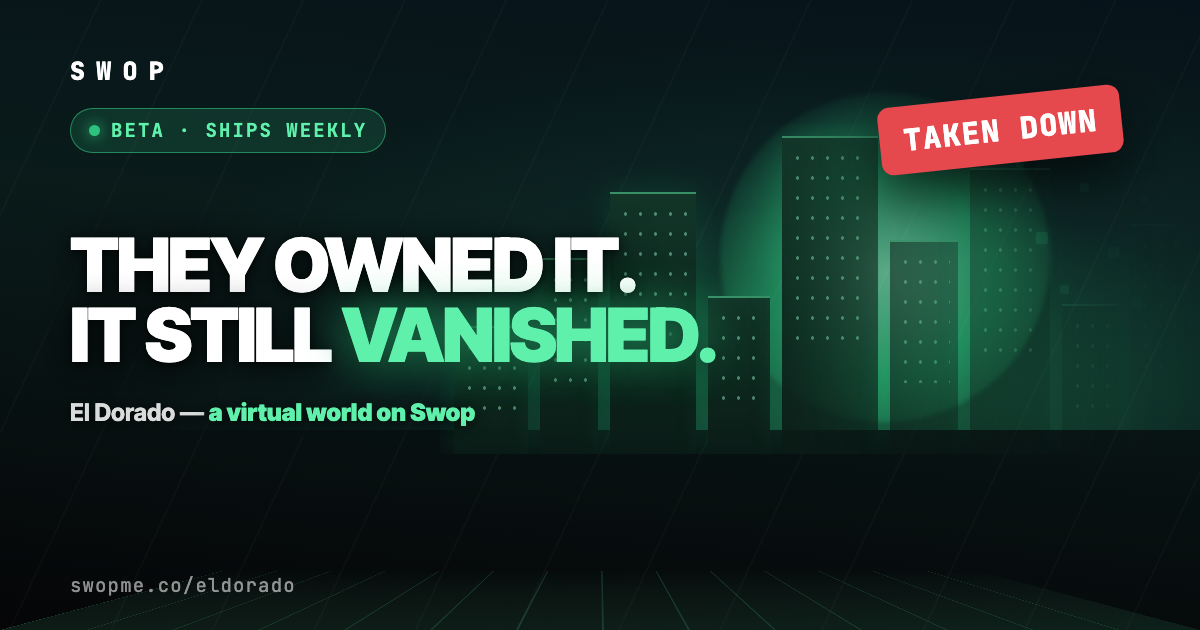
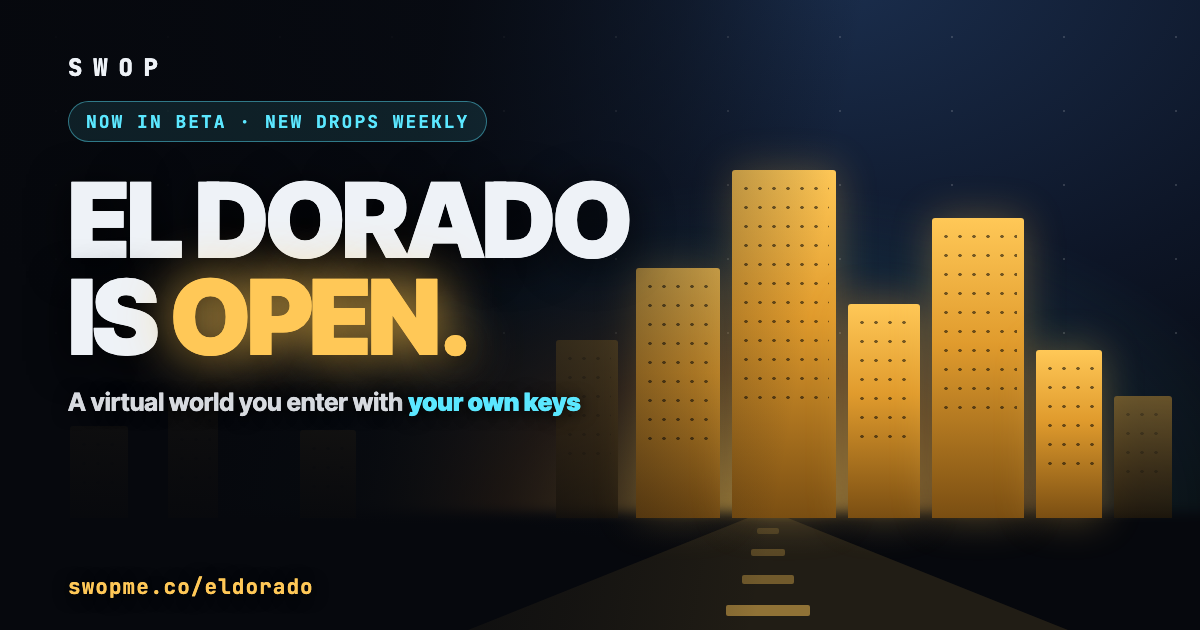
post(2026-10-14): rebuild as an invitation, not an essay
Travis: "thats pretty bad. make it all better and simpler to understand
and appealing to read and play in el dorado." He's right on all three.

The banner was the clearest failure. I built a LAUNCH cover around a
takedown — a grim green frame reading "THEY OWNED IT. IT STILL VANISHED."
with a TAKEN DOWN stamp. It sold a sad story about someone else's game
instead of making anyone want to walk into ours. El Dorado is also
literally the city of gold and I rendered it in Swop-blog green.

New banner uses El Dorado's OWN palette, lifted from its live stylesheet
(gold #FFC857, cyan #5BE7FF, navy #06080d): a golden skyline with a road
leading into it, "EL DORADO IS OPEN." Skyline sits right of frame with a
scrim so the copy always wins — the first cut had the headline colliding
with the towers and was unreadable at feed size.

The post had the same shape problem: it opened with several paragraphs of
licensing argument before a reader learned what El Dorado was or why they
would go. Restructured to lead with the invitation and a three-step
"Getting in", then the why, then the honest limits. Plainer sentences
throughout; 2,542 -> 2,156 words.

Kept intact: every factual claim, both verified infographics, the GTA
case, and the full "what we're not claiming" section. Simpler, not softer.

X thread and LinkedIn re-cut to open on the invitation.

diff --git a/blog/el-dorado-virtual-world-beta/index.html b/blog/el-dorado-virtual-world-beta/index.html
@@ -106,9 +106,9 @@
 <div class="wrap">
 <div class="art-crumb"><a href="/blog">Blog</a><span>/</span><span class="cur">Product</span></div>
 <h1 class="tight">El Dorado is live in beta</h1>
-<p class="art-dek">A virtual world built on Swop. You enter it with your swop.id &mdash; the same self-custodial wallet you already hold &mdash; and you can put on a headset to walk around in it. It is a beta, it has rough edges, and it ships improvements every week.</p>
+<p class="art-dek">A virtual world built on Swop, open now in beta. Sign in with your swop.id, put on a headset if you have one, and walk around a world you entered with keys you actually hold. New improvements every week.</p>
 <div class="art-meta">
-<span class="by"><span class="ini">ST</span><a class="nm" href="/blog/authors/swop-team">Swop Team</a><span class="sep"></span><span class="mono">Oct 14, 2026</span><span class="sep"></span><span class="mono">Updated Oct 14, 2026</span><span class="sep"></span><span class="mono">9 min read</span></span>
+<span class="by"><span class="ini">ST</span><a class="nm" href="/blog/authors/swop-team">Swop Team</a><span class="sep"></span><span class="mono">Oct 14, 2026</span><span class="sep"></span><span class="mono">Updated Oct 14, 2026</span><span class="sep"></span><span class="mono">7 min read</span></span>
 <span class="share"><a href="#" id="copy-link">Copy link</a><a href="https://x.com/intent/tweet?text=El%20Dorado%20is%20live%20in%20beta%20%E2%80%94%20a%20virtual%20world%20you%20enter%20with%20a%20wallet%20you%20hold%20the%20keys%20to.&url=https%3A%2F%2Fwww.swopme.co%2Fblog%2Fel-dorado-virtual-world-beta" target="_blank" rel="noopener">X</a><a href="https://warpcast.com/~/compose?text=El%20Dorado%20is%20live%20in%20beta&embeds[]=https%3A%2F%2Fwww.swopme.co%2Fblog%2Fel-dorado-virtual-world-beta" target="_blank" rel="noopener">Farcaster</a></span>
 </div>
 </div>
@@ -118,36 +118,29 @@
 <div class="wrap art-grid">
 <aside class="toc">
 <span class="lbl">Contents</span>
-<a href="#s1">What El Dorado is</a>
-<a href="#s2">You sign in with something you already hold</a>
-<a href="#s3">Every virtual economy has the same problem</a>
-<a href="#s4">What a self-custodial wallet changes</a>
-<a href="#s5">What it doesn&rsquo;t change</a>
-<a href="#s6">It&rsquo;s a beta, and it moves weekly</a>
+<a href="#s1">Getting in</a>
+<a href="#s2">Why we built it this way</a>
+<a href="#s3">The clearest example is a city</a>
+<a href="#s4">What changes in El Dorado</a>
+<a href="#s5">What we're not claiming</a>
+<a href="#s6">It's a beta, and it moves weekly</a>
+<a href="#s7">Come in</a>
 <a href="#faq">FAQ</a>
 </aside>
 <article class="prose">
-<p><strong>El Dorado is live in beta at <a href="https://www.swopme.co/eldorado">swopme.co/eldorado</a>.</strong> It is a virtual world built on Swop.</p>
-<p>We shipped it rather than announced it, so the honest version of this post is short on promises and clear about what exists today. Here is what it is, what makes it structurally different from the virtual worlds you have used before, and what it is not yet.</p>
+<p><strong>El Dorado is open.</strong> It is a virtual world built on Swop, it is live in beta right now at <a href="https://www.swopme.co/eldorado">swopme.co/eldorado</a>, and you can be inside it in about a minute.</p>
+<p>You can walk in on your laptop, or put on a headset and walk in properly. What you need is a swop.id &mdash; the identity you already have if you use the Swop app. There is no new account to make and no password to invent.</p>
 
-<h2 id="s1">What El Dorado is</h2>
-<p>A virtual world that runs on Swop&rsquo;s rails. That second half is the part worth paying attention to, and it is the reason this post exists on a blog that mostly argues about settlement and custody rather than about games.</p>
-<p>The <a href="/blog/tokenized-isnt-the-same-as-yours">piece we published yesterday</a> made the case that &ldquo;tokenized&rdquo; tells you almost nothing on its own &mdash; that the interesting variable is custody, and that it is set by whoever designs the thing, not by the chain underneath. El Dorado is what it looks like when you set that dial deliberately at the start, in a category where it has almost never been set that way at all.</p>
+<h2 id="s1">Getting in</h2>
+<p>Three steps, and the third one is optional.</p>
+<p><strong>1. Open <a href="https://www.swopme.co/eldorado">swopme.co/eldorado</a>.</strong> It asks you to sign in with your swop.id from the Swop app. If you don&rsquo;t have one yet, claim it in the app first &mdash; it takes a moment and it is the same id you use everywhere else in Swop.</p>
+<p><strong>2. Approve it on your phone.</strong> Open the Swop app, go to Wallet settings &rarr; Wallet connections, scan the code on screen, approve. You&rsquo;re in.</p>
+<p><strong>3. If you have a headset, pair it.</strong> You never type a password with a controller. Sign in on your phone, then enter the short code the headset shows you &mdash; or scan from the headset directly. Then you are standing in it rather than looking at it.</p>
 
-<h2 id="s2">You sign in with something you already hold</h2>
-<p>Open <a href="https://www.swopme.co/eldorado">swopme.co/eldorado</a> and you are asked to sign in with your <strong>swop.id</strong> from the Swop app. Not a new game account. Not a new password. The identity you already carry.</p>
-<p>If you are going in on a headset, you do not type anything with a controller. Sign in on your phone first, then pair the headset &mdash; either by scanning a code using Wallet connections in the Swop app, or by opening the pairing page on your phone and entering the short code the headset displays. If you do not have a swop.id yet, you claim one in the Swop app and come back.</p>
-<p>That flow is mundane to describe and it is the whole architectural point. The thing you authenticate with is a wallet whose keys live on your device. Swop is fully self-custodial &mdash; keys are generated and held on your device; Swop never holds them.</p>
-
-<h2 id="s3">Every virtual economy has the same problem</h2>
-<p>Here is the pattern that has held across two decades of virtual worlds, and it has nothing to do with whether a given game is good.</p>
-<p>In mainstream games, virtual items are granted under a <em>limited licence</em>. You are not buying property; you are buying permission to use something, and the terms usually say so explicitly. Publishers reserve the right to terminate an account, typically without refund. A ban does not just stop you playing &mdash; it freezes the inventory attached to that game, and an inventory you cannot reach has no practical value no matter what the market price says. Most publishers also prohibit transferring items or accounts outside their own systems, which means the exit is controlled by the same party as the entrance.</p>
-<p>The sharpest illustration of this is not a story about an economy at all. It is a story about a city.</p>
-<p>A group of developers spent years reverse-engineering <em>Grand Theft Auto III</em> and <em>Vice City</em> &mdash; rebuilding the games from the outside so they would run properly on modern machines. The projects, re3 and reVC, shipped no game content. <strong>You had to own the original game to use them at all.</strong> They were, in the most literal sense, a tool for people who had already paid.</p>
-<p>In February 2021 Take-Two issued a DMCA notice and GitHub took the code down. A developer filed a counter-notice and a fork came back. A lawsuit followed that September, the projects came down again in October, and the following month Take-Two shipped its own remastered versions of both games. The case was later settled.</p>
-<p>Today, if you open the original repository, GitHub returns <strong>HTTP 451 &mdash; Unavailable for Legal Reasons</strong>. We checked on the morning this post went up. A status code invented for censorship, named after <em>Fahrenheit 451</em>, returned for a rebuild of a two-decade-old game that you needed to own a copy of to run.</p>
-<p>Reasonable people disagree about who was right there, and we are not relitigating it. The point is narrower and harder to argue with: <strong>owning the game was never the thing that mattered.</strong> Every player who bought it still bought a licence, and the city they could walk around in existed at the discretion of someone else. That is the default condition of every virtual world you have ever entered.</p>
-<p>There are exceptions. EVE Online&rsquo;s PLEX is a long-running sanctioned bridge between in-game currency and real money. But the exceptions prove the rule: they exist because a publisher chose to allow them, and could choose otherwise.</p>
+<h2 id="s2">Why we built it this way</h2>
+<p>Here is the part that makes El Dorado different from every virtual world you have been in before, and it is worth two minutes.</p>
+<p>In almost every game you have played, <strong>you do not own your stuff.</strong> You hold a licence to use it. The terms usually say so in plain words. The publisher can close your account, and when that happens your inventory goes with it &mdash; not because anyone stole it, but because it was never in your hands to begin with. It lived in their database, and your account was the key to it.</p>
+<p>Most publishers also forbid selling or moving items outside their own systems. So the way out is controlled by the same people who control the way in.</p>
 
 <figure class="ig" aria-labelledby="ig1-cap">
 <svg viewBox="0 0 980 300" role="img" aria-label="Two models of holding a virtual item. The licence model: the item sits in the publisher's database, the account is the key, a ban freezes the inventory, and transfers outside the platform are prohibited. The self-custody model: the item sits in a wallet whose keys are on the player's device, the player holds the key, access cannot be silently frozen, and it is not confined to one platform's trading system." xmlns="http://www.w3.org/2000/svg">
@@ -178,22 +171,29 @@
 <figcaption id="ig1-cap">The difference is custody, not graphics. Note the last line on the right &mdash; it is the honest limit of the claim.</figcaption>
 </figure>
 
-<h2 id="s4">What a self-custodial wallet changes</h2>
-<p>Three things, concretely, and they follow from Swop&rsquo;s existing properties rather than from anything novel we are asking you to take on faith.</p>
-<p><strong>Your key is yours.</strong> Keys are generated and held on your device; Swop never holds them. The practical consequence is that your access to what you hold does not depend on an account remaining in good standing with a single operator.</p>
-<p><strong>You do not need to pre-buy gas to do anything.</strong> Transactions on Swop are gas-sponsored &mdash; you do not need to hold SOL or ETH to transact, and Swop covers the network fee as a cost it absorbs rather than a charge passed through to you. For a virtual world this matters more than it sounds: the usual on-boarding failure is a new player bouncing off a screen demanding they acquire a second token before they can take a first action.</p>
-<p><strong>It is not confined to one world.</strong> Swop runs on Solana, Ethereum, Base and Polygon, and the wallet you sign in with is the same one you use everywhere else in Swop &mdash; not a per-game balance that only exists inside one company&rsquo;s ledger.</p>
-<p>And losing the phone is not losing the account: log in with your email on any phone and your Swop wallet comes back with it. You can also save your private key, which lets you open your assets in another wallet entirely.</p>
+<h2 id="s3">The clearest example is a city</h2>
+<p>A few years ago, some developers rebuilt <em>Grand Theft Auto III</em> and <em>Vice City</em> from the outside &mdash; reverse-engineering them so the games would run properly on modern machines. The projects shipped no game content at all. <strong>You had to own the original game for them to work.</strong></p>
+<p>They were taken down anyway. Take-Two filed a DMCA notice in February 2021 and GitHub pulled the code. A counter-notice brought a fork back. A lawsuit followed that September, the projects came down again in October, and the month after that Take-Two released its own remasters of both games. It was later settled.</p>
+<p>Open the original repository today and you get <strong>&ldquo;451 &mdash; Unavailable for Legal Reasons&rdquo;</strong>, an error code originally meant for censorship. We checked the morning this went up.</p>
+<p>You can take either side of that fight. The bit that matters here is simpler: <strong>every person who bought that game still only had a licence to it.</strong> The city they drove around in existed because someone else allowed it to. That is the normal condition of virtual worlds, and most people have never had a reason to notice.</p>
 
-<h2 id="s5">What it doesn&rsquo;t change</h2>
-<p>This is the section most product launch posts leave out, so we will be direct.</p>
-<p><strong>Self-custody is not the same as legal ownership.</strong> Holding an asset in a wallet you control changes what can be done to your <em>access</em>. It does not by itself settle what rights you have in a virtual good &mdash; that still depends on the terms you agreed to and on your jurisdiction, and the law here is genuinely unsettled and varies by country. Anyone telling you that a wallet converts a game item into property in the legal sense is skipping a step. We are claiming the custody half, which is real, and not the legal half, which is not ours to assert.</p>
-<p><strong>Self-custody also hands you the key problem.</strong> That is the trade. Email recovery and key export exist precisely because the honest version of &ldquo;nobody can take it from you&rdquo; is &ldquo;nobody can get it back for you either.&rdquo;</p>
-<p><strong>And Swop has not commissioned a third-party security audit to date.</strong> That is true of the platform El Dorado is built on, it is relevant to anyone deciding how much to put into a beta, and you should weigh it.</p>
+<h2 id="s4">What changes in El Dorado</h2>
+<p>You arrive holding your own keys.</p>
+<p>Swop is fully self-custodial &mdash; keys are generated and held on your device, and Swop never holds them. Your way in is something you control, not an account someone else can switch off.</p>
+<p>A few practical consequences:</p>
+<p><strong>No buying a token before you can do anything.</strong> Transactions on Swop are gas-sponsored. You don&rsquo;t need to hold SOL or ETH to transact &mdash; Swop covers the network fee and absorbs it rather than passing it on.</p>
+<p><strong>It isn&rsquo;t trapped in one world.</strong> The wallet you walk in with is the same one you use across Swop, which runs on Solana, Ethereum, Base and Polygon &mdash; not a balance that only means something inside one company&rsquo;s game.</p>
+<p><strong>Losing your phone isn&rsquo;t losing anything.</strong> Log in with your email on a new phone and your wallet comes back. You can also export your private key and open your assets in a completely different wallet.</p>
 
-<h2 id="s6">It&rsquo;s a beta, and it moves weekly</h2>
-<p>El Dorado is in beta. We mean that literally rather than as a legal cushion: things will change under you, some of them will break, and features will move. <strong>Improvements roll out every week</strong>, so the version you walk into on a Monday is not the version that will be there the Monday after.</p>
-<p>Beta is a description, not a disclaimer. Calling something a beta does not transfer the consequences of its rough edges onto the people using it. If something in El Dorado behaves badly, that is ours to fix, and the weekly cadence is how we intend to fix it in public rather than quietly.</p>
+<h2 id="s5">What we&rsquo;re not claiming</h2>
+<p>Two honest limits, because the overclaim here is easy and we&rsquo;d rather you hear it from us.</p>
+<p><strong>Self-custody isn&rsquo;t the same as legal ownership.</strong> Holding something in a wallet you control changes what can be done to your <em>access</em> &mdash; it can&rsquo;t be quietly frozen, and it isn&rsquo;t stuck inside one platform&rsquo;s trading system. It does not settle what legal rights you have in a virtual item. That still depends on the terms you agreed to and the country you&rsquo;re in, and the law there is genuinely unsettled. Anyone telling you a wallet turns a game item into property in the legal sense is skipping a step.</p>
+<p><strong>And holding your own keys means holding your own keys.</strong> Email recovery and key export exist for a reason, but the honest version of &ldquo;nobody can take this from you&rdquo; is &ldquo;nobody can get it back for you either.&rdquo;</p>
+<p>One more, while we&rsquo;re here: Swop has not commissioned a third-party security audit to date. That is true of the platform El Dorado runs on, and you should weigh it when deciding how much to bring into a beta.</p>
+
+<h2 id="s6">It&rsquo;s a beta, and it moves every week</h2>
+<p>We mean beta literally, not as a legal cushion. Things will change under you. Some things will break. Features will move or disappear.</p>
+<p><strong>Improvements ship every week</strong>, so the El Dorado you walk into this Monday is not the one that will be there next Monday. That is the point of opening it now rather than later &mdash; we would rather build it in front of you.</p>
 
 <figure class="ig" aria-labelledby="ig2-cap">
 <svg viewBox="0 0 980 212" role="img" aria-label="What beta means here. Expect things to change weekly, expect rough edges and some breakage, and expect features to move. What it does not mean: that rough edges are the user's problem, that the custody guarantees are provisional, or that feedback goes unread." xmlns="http://www.w3.org/2000/svg">
@@ -215,19 +215,22 @@
 <figcaption id="ig2-cap">A beta label describes the state of the software. It does not move the consequences onto the person using it.</figcaption>
 </figure>
 
-<p>If you want to see it, it is at <a href="https://www.swopme.co/eldorado">swopme.co/eldorado</a>. Bring a swop.id. If you do not have one, claim it in the Swop app first &mdash; and if you want the longer argument for why entering a virtual world with a wallet you control is different in kind from entering one with an account, <a href="/blog/tokenized-isnt-the-same-as-yours">yesterday&rsquo;s post</a> is the place to start.</p>
+<p>Beta describes the state of the software. It doesn&rsquo;t move the consequences of rough edges onto you. If something behaves badly in there, that&rsquo;s ours to fix.</p>
+
+<h2 id="s7">Come in</h2>
+<p><a href="https://www.swopme.co/eldorado">swopme.co/eldorado</a>. Bring a swop.id, or claim one in the Swop app on the way. If you want the longer argument for why entering a world with keys you hold is different in kind from entering one with an account, <a href="/blog/tokenized-isnt-the-same-as-yours">we wrote that up here</a>.</p>
 
 <h2 id="faq">FAQ</h2>
 <h3>What is El Dorado?</h3>
-<p>A virtual world built on Swop. You enter it at <a href="https://www.swopme.co/eldorado">swopme.co/eldorado</a> by signing in with your swop.id &mdash; the same identity and self-custodial wallet you already use in the Swop app &mdash; rather than by creating a new game account. It is currently in beta.</p>
-<h3>How do I get in on a VR headset?</h3>
-<p>Sign in on your phone first, then pair the headset: either scan a code using Wallet connections in the Swop app, or open the pairing page on your phone and enter the code the headset shows. No password typing with a controller.</p>
-<h3>Do I need a seed phrase or crypto experience?</h3>
-<p>No. You need a swop.id, claimed in the Swop app. Swop is self-custodial &mdash; keys are generated and held on your device &mdash; but you sign in with your identity rather than by managing a seed phrase, and transactions are gas-sponsored, so you don&rsquo;t need to hold SOL or ETH to transact.</p>
-<h3>Does a self-custodial wallet mean I legally own my virtual items?</h3>
-<p>Not automatically. In mainstream games virtual items are granted under a limited licence rather than sold as property, and publishers reserve the right to terminate accounts. Holding something in a wallet you control changes what can be done to your access &mdash; it can&rsquo;t be silently frozen, and it isn&rsquo;t confined to one platform&rsquo;s trading system &mdash; but legal rights in virtual goods still depend on the terms you agreed to and your jurisdiction. Those are two different questions and we&rsquo;re only claiming the first.</p>
+<p>A virtual world built on Swop, live in beta at <a href="https://www.swopme.co/eldorado">swopme.co/eldorado</a>. You enter it by signing in with your swop.id from the Swop app rather than by making a new game account.</p>
+<h3>How do I get in?</h3>
+<p>Open swopme.co/eldorado, sign in with your swop.id, and approve it in the Swop app (Wallet settings &rarr; Wallet connections &rarr; scan the code). On a headset, sign in on your phone and enter the code the headset shows you &mdash; no typing with a controller.</p>
+<h3>Do I need crypto experience or a seed phrase?</h3>
+<p>No. You need a swop.id, claimed in the Swop app. Swop is self-custodial, so keys are generated and held on your device, but you sign in with your identity rather than by managing a seed phrase. Transactions are gas-sponsored too, so you don&rsquo;t need to hold SOL or ETH to transact.</p>
+<h3>Does this mean I legally own my virtual items?</h3>
+<p>Not automatically. In most games virtual items are granted under a limited licence rather than sold as property, and publishers can close accounts. Holding something in a wallet you control changes what can be done to your access &mdash; it can&rsquo;t be quietly frozen and isn&rsquo;t confined to one platform&rsquo;s trading system &mdash; but legal rights in virtual goods still depend on the terms and your jurisdiction. Those are two different questions, and we&rsquo;re only claiming the first.</p>
 <h3>What does &ldquo;beta&rdquo; mean here?</h3>
-<p>That things will change under you. Improvements ship every week, so expect rough edges and expect features to move. Beta describes the state of the product; it isn&rsquo;t a disclaimer that makes the rough edges yours.</p>
+<p>That it changes under you. Improvements ship every week, so expect rough edges and expect things to move. Beta describes the state of the software; it doesn&rsquo;t make the rough edges your problem.</p>
 
 <div class="app-cta">
 <div class="app-copy">

diff --git a/blog/el-dorado-virtual-world-beta/og.html b/blog/el-dorado-virtual-world-beta/og.html
@@ -6,75 +6,86 @@
   @font-face { font-family:'Inter Tight'; src:url('../../editorial/fonts/InterTight.ttf'); }
   @font-face { font-family:'JetBrains Mono'; src:url('../../editorial/fonts/JetBrainsMono.ttf'); }
   body { font-family:'Inter Tight','Inter',-apple-system,sans-serif;
-    background: linear-gradient(185deg, #07131a 0%, #0a1b1a 38%, #071010 70%, #050507 100%);
-    color:#fff; position:relative; }
-  .sky { position:absolute; left:0; right:0; top:0; height:430px;
-    background: radial-gradient(90% 120% at 72% 92%, rgba(46,194,126,.42) 0%, rgba(20,80,70,.22) 38%, transparent 70%); }
-  .sun { position:absolute; right:150px; bottom:208px; width:330px; height:330px; border-radius:50%;
-    background: radial-gradient(circle at 50% 55%, #9effd0 0%, #2ec27e 42%, rgba(46,194,126,.16) 72%, transparent 76%);
-    opacity:.55; filter:blur(2px); }
-  .grid { position:absolute; left:0; right:0; bottom:0; height:200px;
-    background:
-      repeating-linear-gradient(to right, rgba(95,240,171,.20) 0 2px, transparent 2px 86px),
-      linear-gradient(to top, rgba(95,240,171,.13) 0%, transparent 100%);
-    transform: perspective(300px) rotateX(62deg); transform-origin: bottom center; opacity:.75; }
-  .city { position:absolute; right:0; bottom:176px; width:760px; height:330px; z-index:1;
-    -webkit-mask-image: linear-gradient(to right, #000 0%, #000 42%, rgba(0,0,0,.45) 68%, rgba(0,0,0,.08) 88%, transparent 100%); }
-  .px { position:absolute; bottom:0; background:#2ec27e; opacity:.5; border-radius:2px;
-        box-shadow:0 0 12px rgba(46,194,126,.6); z-index:2; }
-  .b { position:absolute; bottom:0; background:linear-gradient(180deg, #123528 0%, #0a1b16 100%);
-       border-top:2px solid rgba(95,240,171,.55); box-shadow:0 0 34px rgba(46,194,126,.16); }
-  .b::after { content:''; position:absolute; inset:10px 8px auto 8px; height:62%;
-       background-image: radial-gradient(circle, rgba(159,255,209,.85) 1.6px, transparent 1.9px);
-       background-size: 15px 20px; opacity:.5; }
-  .stripes { position:absolute; inset:0;
-    background: repeating-linear-gradient(115deg, transparent 0 90px, rgba(255,255,255,.02) 90px 92px); }
-  .wrap { position:absolute; inset:0; padding:54px 70px; display:flex; z-index:3; }
-  .left { width:700px; display:flex; flex-direction:column; }
-  .logo { font-family:'JetBrains Mono'; font-weight:800; font-size:25px; letter-spacing:.45em; margin-bottom:20px; }
-  .kick { display:inline-flex; align-items:center; gap:11px; background:rgba(46,194,126,.16);
-    border:1.5px solid rgba(46,194,126,.62); color:#5ff0ab; font-family:'JetBrains Mono';
-    font-size:19px; font-weight:700; letter-spacing:.11em; padding:9px 18px; border-radius:999px;
-    width:max-content; margin-bottom:24px; text-transform:uppercase; }
-  .dot { width:11px; height:11px; border-radius:50%; background:#2ec27e; box-shadow:0 0 14px #2ec27e; }
-  h1 { font-size:74px; white-space:nowrap; margin-top:54px; line-height:.94; font-weight:900; letter-spacing:-.032em;
-       text-shadow:0 6px 36px rgba(0,0,0,.85), 0 2px 10px rgba(0,0,0,.7); }
-  h1 .hl { color:#5ff0ab; text-shadow:0 0 44px rgba(46,194,126,.8), 0 4px 22px rgba(0,0,0,.8); }
-  .sub { margin-top:28px; font-size:24px; font-weight:700; color:rgba(255,255,255,.85);
-         text-shadow:0 2px 14px rgba(0,0,0,.8); }
-  .sub b { color:#5ff0ab; }
-  .stamp { position:absolute; right:78px; top:96px; transform:rotate(-6deg); z-index:4;
-    background:#e5484d; color:#fff; border-radius:12px; padding:14px 24px;
-    font-family:'JetBrains Mono'; font-weight:800; font-size:30px; letter-spacing:.05em;
-    box-shadow:0 20px 54px rgba(0,0,0,.7); text-transform:uppercase; }
-  .url { position:absolute; left:70px; bottom:32px; font-family:'JetBrains Mono';
-    font-size:19px; color:rgba(255,255,255,.55); letter-spacing:.06em; z-index:3; }
+    background: radial-gradient(1200px 760px at 68% -6%, #1b2f4f 0%, #0d1526 46%, #06080d 78%);
+    color:#eef2f7; position:relative; }
+
+  /* warm horizon glow behind the city */
+  .glow { position:absolute; left:62%; bottom:118px; transform:translateX(-50%);
+    width:1180px; height:420px;
+    background: radial-gradient(60% 100% at 50% 100%, rgba(255,200,87,.52) 0%, rgba(255,160,60,.22) 34%, rgba(91,231,255,.06) 60%, transparent 78%);
+    filter:blur(6px); }
+  .stars { position:absolute; inset:0 0 44% 0;
+    background-image: radial-gradient(circle, rgba(255,255,255,.75) 1px, transparent 1.4px);
+    background-size: 112px 74px; opacity:.2; }
+
+  /* golden skyline */
+  .city { position:absolute; left:0; right:0; bottom:112px; height:360px; z-index:2; }
+  .b { position:absolute; bottom:0; border-radius:3px 3px 0 0;
+       background:linear-gradient(180deg, #FFC857 0%, #E09B2D 42%, #7a4e12 100%);
+       box-shadow:0 0 40px rgba(255,200,87,.3); }
+  .b::after { content:''; position:absolute; inset:9px 7px auto 7px; height:66%;
+       background-image: radial-gradient(circle, rgba(10,8,4,.55) 1.5px, transparent 1.9px);
+       background-size: 14px 19px; }
+  .b.far { background:linear-gradient(180deg, #8a6a2e 0%, #4a3617 60%, #241a0b 100%);
+       box-shadow:none; opacity:.72; }
+  .b.far::after { opacity:.5; }
+
+  /* road leading in */
+  .road { position:absolute; left:64%; bottom:0; transform:translateX(-50%);
+    width:0; height:0; border-left:300px solid transparent; border-right:300px solid transparent;
+    border-bottom:120px solid rgba(255,200,87,.11); z-index:1; }
+  .dash { position:absolute; left:64%; transform:translateX(-50%); background:rgba(255,200,87,.5);
+    border-radius:2px; z-index:3; }
+
+  .scrim { position:absolute; inset:0; z-index:4;
+    background: linear-gradient(100deg, rgba(6,8,13,.94) 0%, rgba(6,8,13,.88) 34%, rgba(6,8,13,.45) 52%, transparent 66%); }
+  .wrap { position:absolute; inset:0; padding:52px 68px; z-index:5; }
+  .logo { font-family:'JetBrains Mono'; font-weight:800; font-size:24px; letter-spacing:.45em; color:#eef2f7; }
+  .kick { display:inline-flex; align-items:center; gap:10px; background:rgba(91,231,255,.1);
+    border:1.5px solid rgba(91,231,255,.45); color:#5BE7FF; font-family:'JetBrains Mono';
+    font-size:18px; font-weight:700; letter-spacing:.11em; padding:8px 17px; border-radius:999px;
+    margin-top:18px; text-transform:uppercase; }
+  h1 { margin-top:30px; font-size:104px; line-height:.93; font-weight:900; letter-spacing:-.034em;
+       white-space:nowrap; text-shadow:0 6px 40px rgba(0,0,0,.8); }
+  h1 .hl { color:#FFC857; text-shadow:0 0 54px rgba(255,200,87,.85), 0 4px 20px rgba(0,0,0,.7); }
+  .sub { margin-top:22px; font-size:25px; font-weight:700; color:rgba(238,242,247,.9);
+         text-shadow:0 2px 16px rgba(0,0,0,.85); }
+  .sub b { color:#5BE7FF; }
+  .url { position:absolute; left:68px; bottom:30px; font-family:'JetBrains Mono';
+    font-size:21px; font-weight:700; color:#FFC857; letter-spacing:.05em; z-index:6;
+    text-shadow:0 2px 16px rgba(0,0,0,.9); }
 </style></head>
 <body>
-  <div class="sky"></div>
-  <div class="sun"></div>
+  <div class="stars"></div>
+  <div class="glow"></div>
+  <div class="road"></div>
+
   <div class="city">
-    <div class="b" style="left:14px;  width:74px;  height:128px;"></div>
-    <div class="b" style="left:100px; width:58px;  height:196px;"></div>
-    <div class="b" style="left:170px; width:86px;  height:262px;"></div>
-    <div class="b" style="left:268px; width:62px;  height:158px;"></div>
-    <div class="b" style="left:342px; width:96px;  height:318px;"></div>
-    <div class="b" style="left:450px; width:68px;  height:214px;"></div>
-    <div class="b" style="left:530px; width:80px;  height:286px;"></div>
-    <div class="b" style="left:622px; width:56px;  height:150px;"></div>
-    <div class="b" style="left:690px; width:70px;  height:230px;"></div>
-<div class="px" style="left:596px; bottom:210px; width:12px; height:12px; opacity:0.55;"></div><div class="px" style="left:640px; bottom:262px; width:9px; height:9px; opacity:0.45;"></div><div class="px" style="left:612px; bottom:300px; width:7px; height:7px; opacity:0.35;"></div><div class="px" style="left:668px; bottom:196px; width:11px; height:11px; opacity:0.5;"></div><div class="px" style="left:700px; bottom:250px; width:8px; height:8px; opacity:0.4;"></div><div class="px" style="left:726px; bottom:310px; width:6px; height:6px; opacity:0.28;"></div><div class="px" style="left:656px; bottom:340px; width:7px; height:7px; opacity:0.3;"></div><div class="px" style="left:692px; bottom:146px; width:10px; height:10px; opacity:0.45;"></div><div class="px" style="left:734px; bottom:210px; width:7px; height:7px; opacity:0.32;"></div><div class="px" style="left:620px; bottom:160px; width:9px; height:9px; opacity:0.5;"></div><div class="px" style="left:752px; bottom:268px; width:6px; height:6px; opacity:0.24;"></div><div class="px" style="left:576px; bottom:286px; width:8px; height:8px; opacity:0.4;"></div>
+    <!-- distant, low, left of frame -->
+    <div class="b far" style="left:70px;  width:58px; height:92px;"></div>
+    <div class="b far" style="left:168px; width:50px; height:116px;"></div>
+    <div class="b far" style="left:300px; width:56px; height:88px;"></div>
+    <!-- main skyline, right half -->
+    <div class="b far" style="left:556px; width:62px; height:178px;"></div>
+    <div class="b" style="left:636px;  width:84px;  height:250px;"></div>
+    <div class="b" style="left:732px;  width:104px; height:348px;"></div>
+    <div class="b" style="left:848px;  width:72px;  height:214px;"></div>
+    <div class="b" style="left:932px;  width:92px;  height:300px;"></div>
+    <div class="b" style="left:1036px; width:66px;  height:168px;"></div>
+    <div class="b far" style="left:1114px; width:58px; height:122px;"></div>
   </div>
-  <div class="grid"></div>
-  <div class="stripes"></div>
-  <div class="stamp">Taken down</div>
+
+  <div class="dash" style="bottom:14px;  width:84px; height:11px;"></div>
+  <div class="dash" style="bottom:46px;  width:52px; height:9px;  opacity:.72;"></div>
+  <div class="dash" style="bottom:74px;  width:34px; height:7px;  opacity:.5;"></div>
+  <div class="dash" style="bottom:96px;  width:22px; height:6px;  opacity:.32;"></div>
+
+  <div class="scrim"></div>
   <div class="wrap">
-    <div class="left">
-      <div class="logo">SWOP</div>
-      <div class="kick"><div class="dot"></div>Beta &middot; ships weekly</div>
-      <h1>THEY OWNED IT.<br>IT STILL <span class="hl">VANISHED.</span></h1>
-      <div class="sub">El Dorado &mdash; <b>a virtual world on Swop</b></div>
-    </div>
+    <div class="logo">SWOP</div>
+    <div class="kick">Now in beta &middot; new drops weekly</div>
+    <h1>EL DORADO<br>IS <span class="hl">OPEN.</span></h1>
+    <div class="sub">A virtual world you enter with <b>your own keys</b></div>
   </div>
   <div class="url">swopme.co/eldorado</div>
 </body></html>
